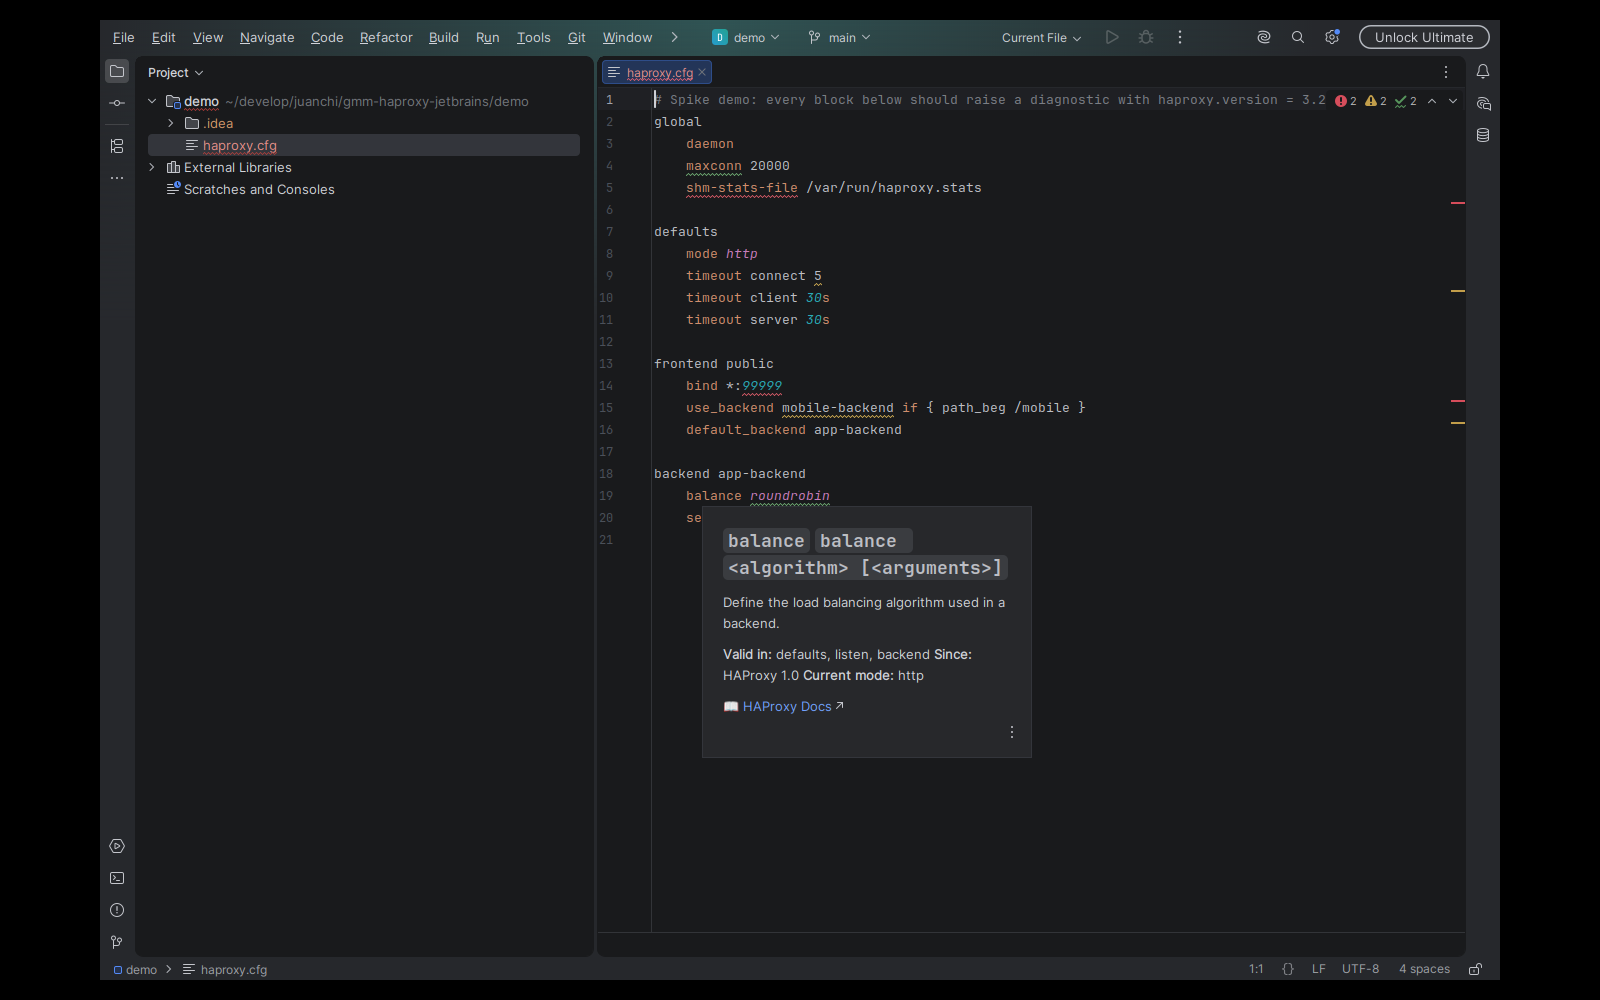
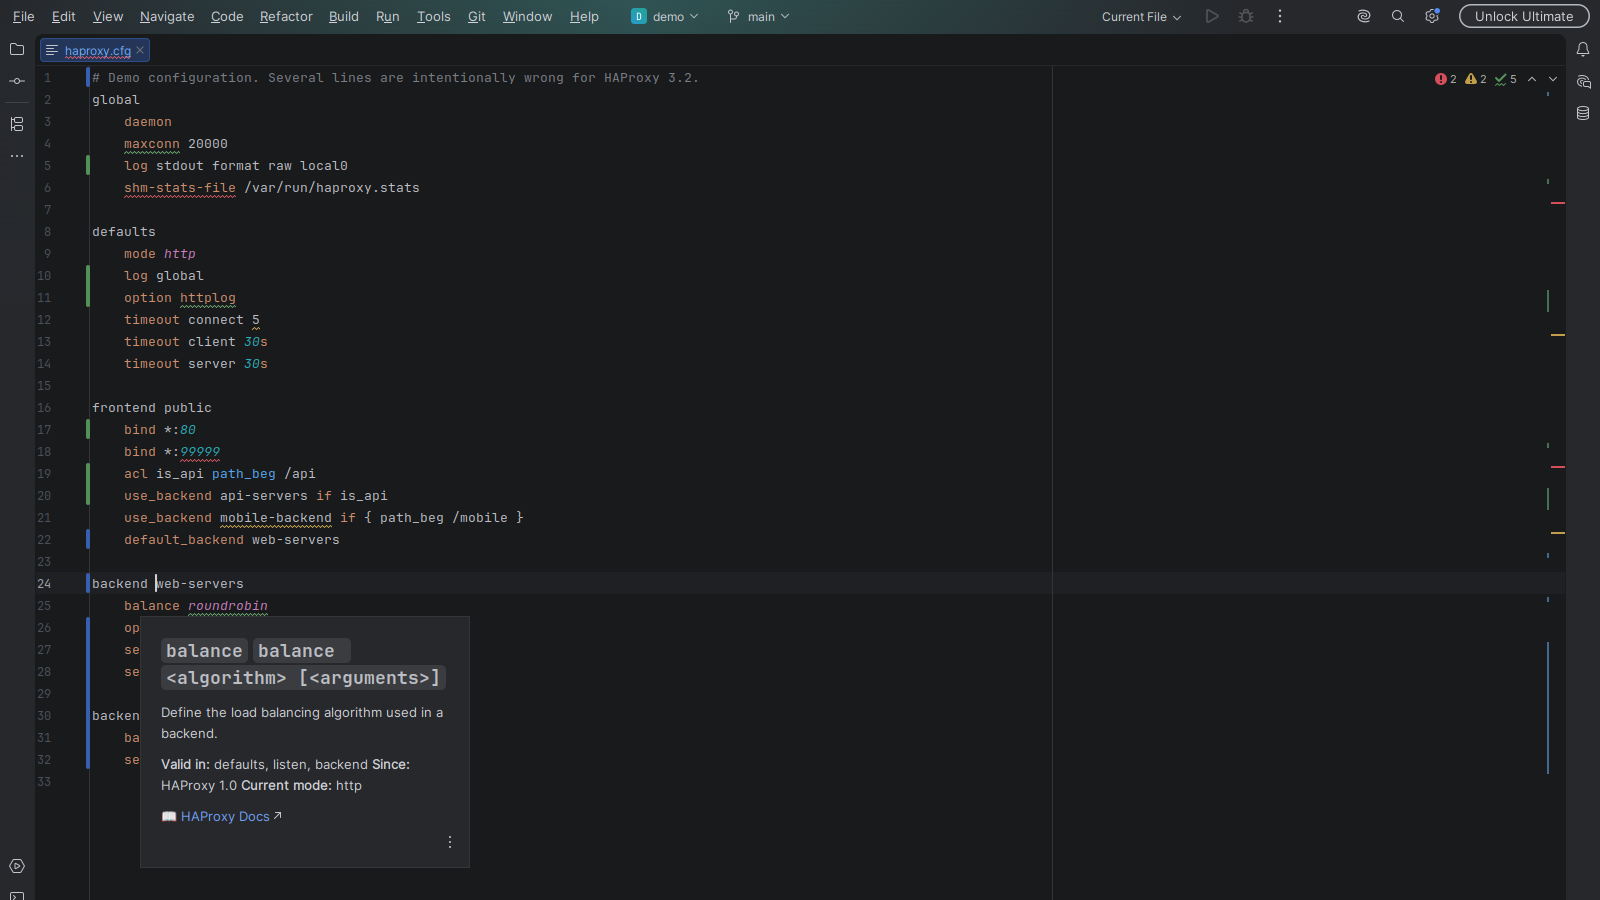
Add README, MIT license and screenshots for 0.1.0

diff --git a/README.md b/README.md
@@ -1,0 +1,128 @@
+# HAProxy Config for JetBrains IDEs
+
+[![Build](https://github.com/JuanTorchia/gmm-haproxy-jetbrains/actions/workflows/build.yml/badge.svg)](https://github.com/JuanTorchia/gmm-haproxy-jetbrains/actions/workflows/build.yml)
+[![License: MIT](https://img.shields.io/badge/License-MIT-green.svg)](LICENSE)
+
+**Version-aware HAProxy configuration support for IntelliJ IDEA, PyCharm and other JetBrains IDEs.**
+Catch config mistakes while editing instead of when HAProxy refuses to reload.
+
+The plugin runs the same language server as the
+[HAProxy Config extension for VS Code](https://marketplace.visualstudio.com/items?itemName=gmm.gmm-haproxy-vscode)
+(also on [Open VSX](https://open-vsx.org/extension/gmm/gmm-haproxy-vscode)), so validation rules and
+documentation are identical in both editors.
+
+Built and maintained by [Juan Torchia](https://github.com/JuanTorchia) as part of
+[GMM Software Solutions](https://gmmhub.net/). Guide: [gmmhub.net/haproxy-config-check](https://gmmhub.net/haproxy-config-check).
+
+## Features
+
+- **Syntax highlighting** for sections, directives, ACLs, addresses, ports and timeouts.
+- **Version-aware validation** for HAProxy 2.4 to 3.4: unknown directives, directives in the wrong section,
+  out-of-range ports, unitless timeouts, deprecated options and `use_backend` targets that do not exist.
+- **Completion** for directives and `option` variants, filtered by section.
+- **Hover documentation** with signature, valid sections and the HAProxy version that introduced the directive.
+- **Go to definition** and **rename** for backends.
+
+![Validation](screenshots/01-validation.png)
+
+![Hover documentation](screenshots/02-hover.png)
+
+![Completion](screenshots/03-completion.png)
+
+## Requirements
+
+- A JetBrains IDE based on 2026.1 or later that includes the platform LSP support
+  (verified on IntelliJ IDEA 2026.1 and 2026.2, and PyCharm 2026.1).
+- **Node.js** (current LTS) to run the language server. The plugin uses `node` from `PATH`, or the executable
+  set in the settings. Without Node.js, syntax highlighting still works and the IDE shows a warning with a
+  shortcut to the settings.
+
+## Settings
+
+*Settings | Languages & Frameworks | HAProxy*
+
+| Setting | Default | Description |
+|---|---|---|
+| HAProxy version | 3.2 | Version used to decide which directives exist or are deprecated. |
+| Node.js executable | empty | Path to `node`. Empty means `node` from `PATH`. |
+
+Changes restart the language server in every open project.
+
+![Settings](screenshots/04-settings.png)
+
+## Which files are HAProxy files
+
+Matched by name, the same rules as the VS Code extension:
+
+- `haproxy.cfg`, `haproxy.conf` and `haproxy*.cfg`
+- any `.cfg` or `.conf` inside a directory named `haproxy`
+
+Other `.cfg` and `.conf` files are checked for HAProxy section headers (`global`, `defaults`, `frontend`,
+`backend`, `listen`, `userlist`, `peers`, `resolvers`, `mailers`, `ring`, `log-forward`, `program`,
+`http-errors`, `cache`, `acme`) at the start of a line within the first 200 lines. A keyword followed by
+`=` or `:` (for example `listen = 127.0.0.1:9000` in php-fpm) does not count. Detection only applies to
+local files that the IDE treats as plain text, INI, Properties or TextMate, so files that another plugin
+claims are left alone.
+
+Files detected by their headers get validation, completion, hover and navigation. Their syntax colors come
+from the generic `.cfg`/`.conf` grammar, because the IDE picks TextMate grammars by file name.
+
+## Install
+
+From the JetBrains Marketplace: *Settings | Plugins | Marketplace*, search for **HAProxy Config**.
+
+From a release ZIP: download `gmm-haproxy-jetbrains-<version>.zip` from
+[GitHub Releases](https://github.com/JuanTorchia/gmm-haproxy-jetbrains/releases), then
+*Settings | Plugins | ⚙ | Install Plugin from Disk*.
+
+## Development
+
+Requirements: JDK 21 (Gradle toolchains can provision it).
+
+```bash
+./gradlew test          # unit and platform tests
+./gradlew buildPlugin   # build/distributions/gmm-haproxy-jetbrains-<version>.zip
+./gradlew runIde        # IntelliJ IDEA sandbox that opens demo/
+./gradlew runPyCharm    # PyCharm sandbox that opens demo/
+./gradlew verifyPlugin  # Plugin Verifier: IDEA 2026.1.4, IDEA 2026.2.2, PyCharm 2026.1.3
+```
+
+Each IDE the verifier downloads takes about 3-4 GB once extracted. To reuse IDEs that are already on disk:
+
+```bash
+./gradlew verifyPlugin -PverifierLocalIdes=/path/to/idea-2026.1,/path/to/pycharm-2026.1
+```
+
+### Bundled language server
+
+`server.js`, the TextMate grammar and the language configuration come from a released
+`gmm-haproxy-vscode` VSIX on Open VSX. The version and the SHA-256 of the VSIX are pinned in
+`gradle.properties`:
+
+```properties
+haproxyServerVersion=0.6.1
[1 lines of base64/hex data omitted]
+```
+
+The build downloads the VSIX once into `build/haproxy-server/`, fails if the checksum differs, and copies the
+three files into the plugin. To move to a new release:
+
+1. Publish the VS Code extension release to Open VSX.
+2. Compute the checksum:
+   ```bash
+   curl -sL https://open-vsx.org/api/gmm/gmm-haproxy-vscode/<version>/file/gmm.gmm-haproxy-vscode-<version>.vsix | sha256sum
+   ```
+3. Update `haproxyServerVersion` and `haproxyServerSha256`, run `./gradlew clean test buildPlugin`, check the
+   demo in `./gradlew runIde`, and mention the server version in the change notes in `plugin.xml`.
+
+### Release
+
+1. Update `<change-notes>` in `src/main/resources/META-INF/plugin.xml`.
+2. Create a GitHub release with a `vX.Y.Z` tag. The `JetBrains Marketplace Release` workflow builds, verifies,
+   signs and publishes that version, then attaches the ZIP to the release. It runs in the
+   `jetbrains-marketplace` environment, which needs the `PUBLISH_TOKEN`, `CERTIFICATE_CHAIN`, `PRIVATE_KEY` and
+   `PRIVATE_KEY_PASSWORD` secrets.
+
+## License
+
+[MIT](LICENSE)
